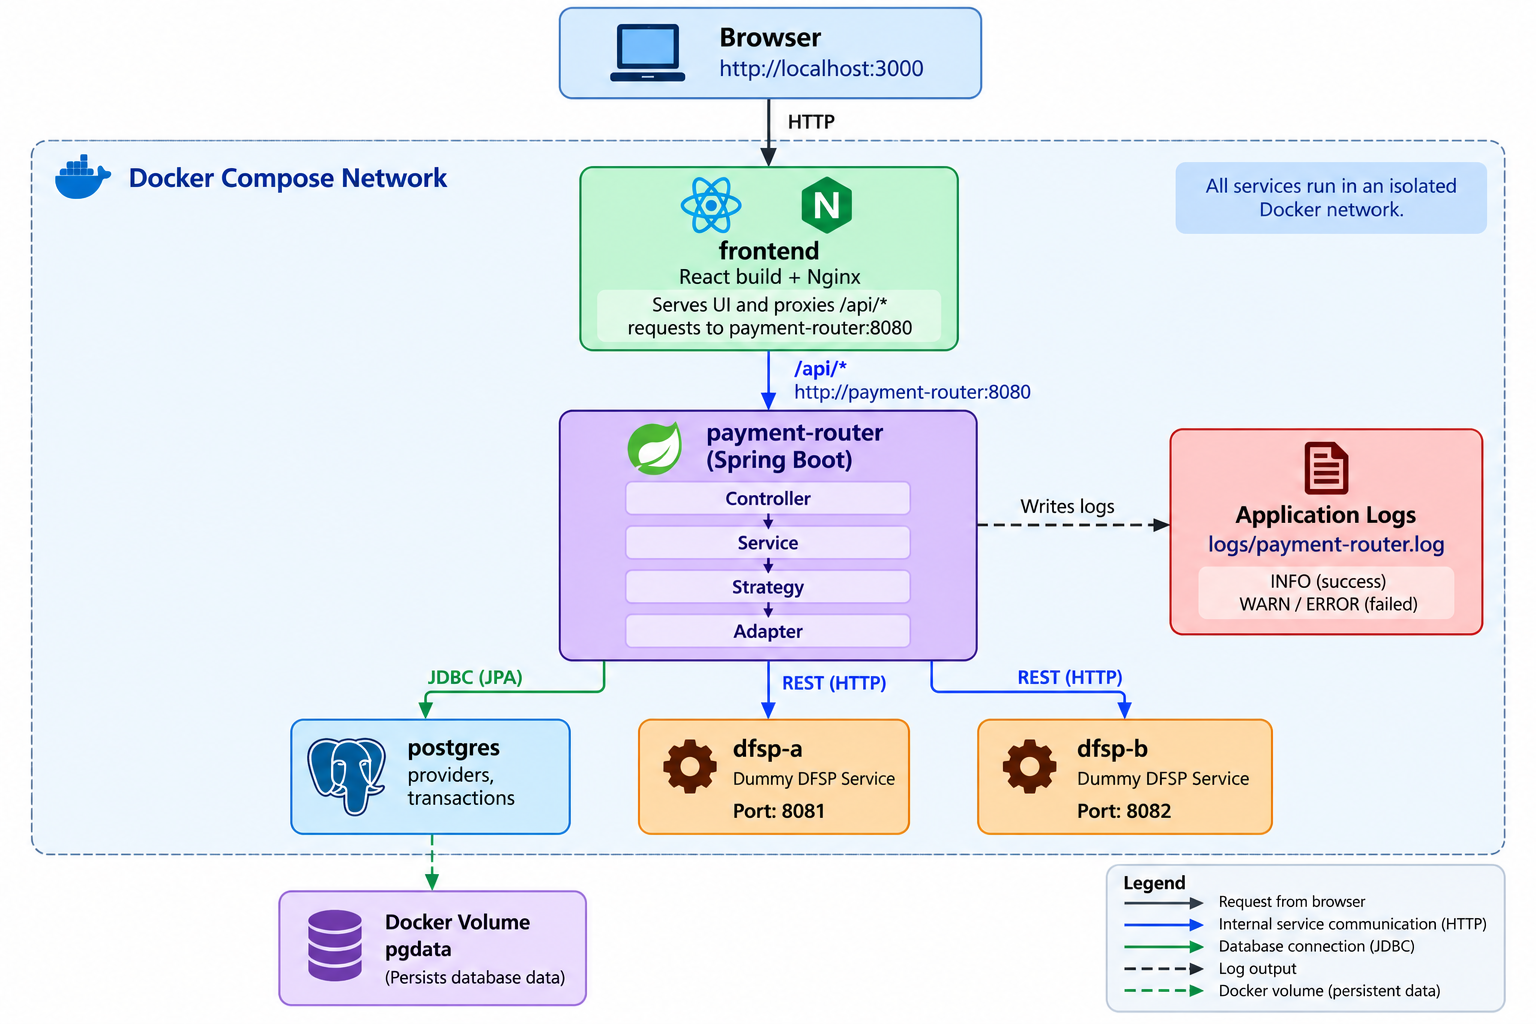
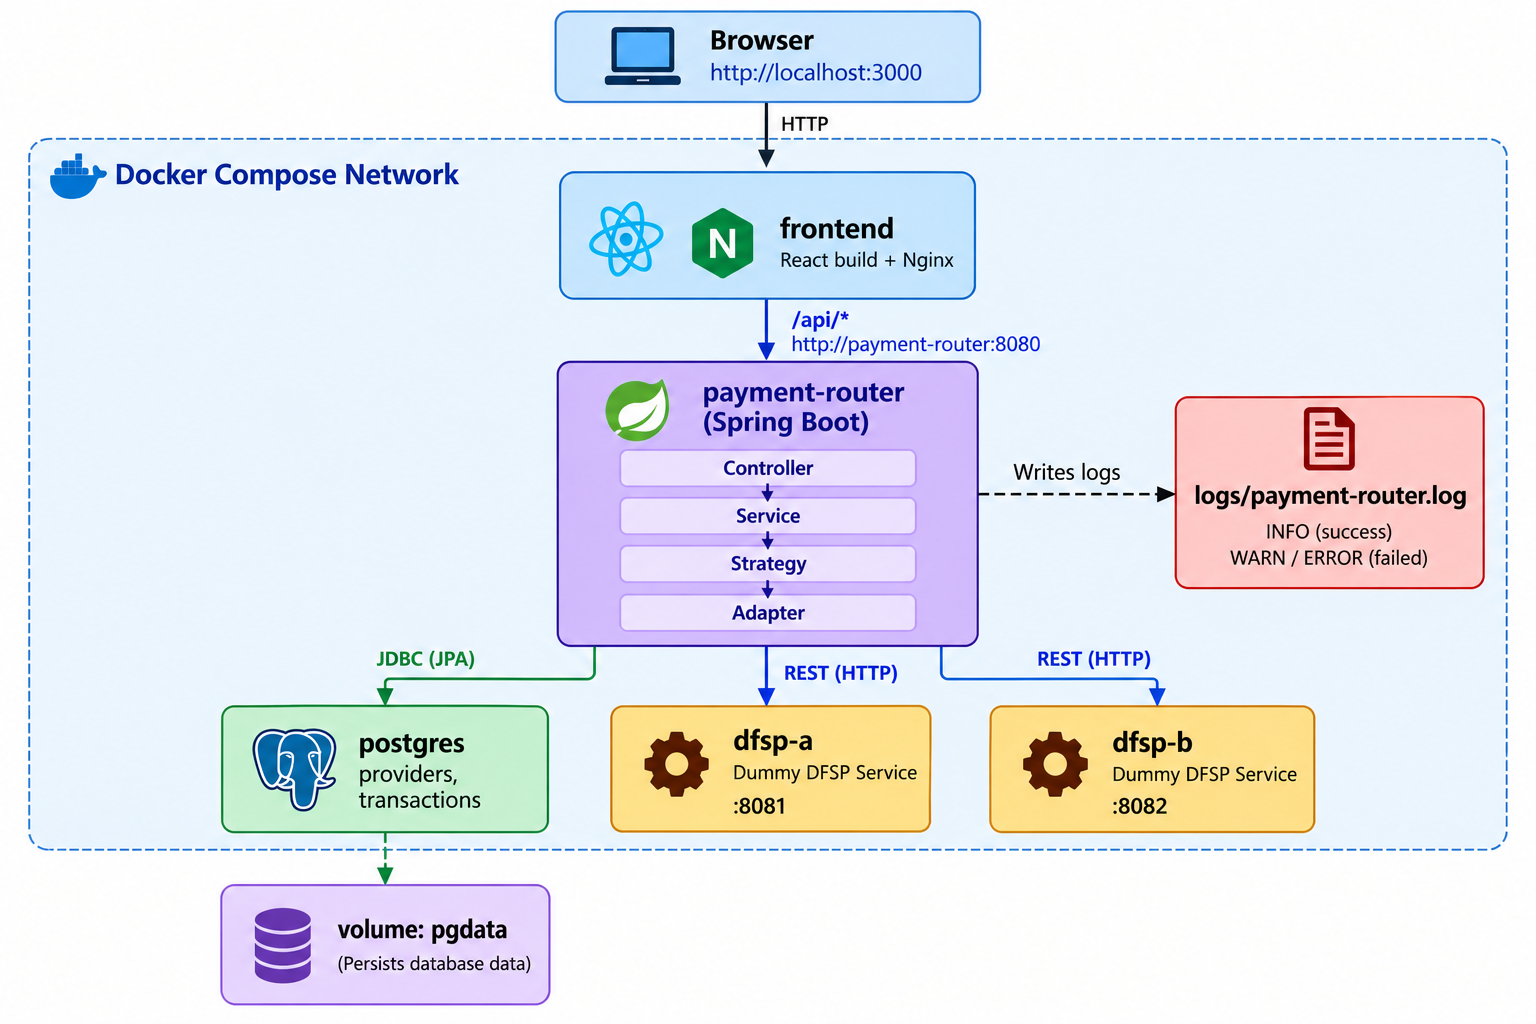
architecture and readme modified

Changed region(s): [[0.0312, 0.0, 0.9688, 1.0], [0.625, 0.375, 0.9688, 0.625]]

diff --git a/README.md b/README.md
@@ -142,7 +142,7 @@ the container's own filesystem.
 ## App flow
 
 ```mermaid
-flowchart TD
+flowchart LR
     Start([Open the app]) --> Load["Load providers<br/>GET /api/providers"]
     Load --> Form["Fill form:<br/>source, destination, amount"]
 
@@ -174,8 +174,8 @@ flowchart TD
     StatusSuccess --> Save["Save transaction in PostgreSQL<br/>(pricing snapshot, ALWAYS)"]
     StatusFailed --> Save
 
-    Save --> LogIt["Write to payment-router.log<br/>INFO success / WARN or ERROR failed"]
-    LogIt --> ShowResult["Show result card:<br/>SUCCESS (green) or FAILED (red)"]
+    Save --> LogIt["Write to payment-router.log"]
+    LogIt --> ShowResult["Show result card: <br/>SUCCESS or FAILED"]
 
     ShowResult --> NewTransfer["Click 'New transfer'"]
     NewTransfer --> Form
